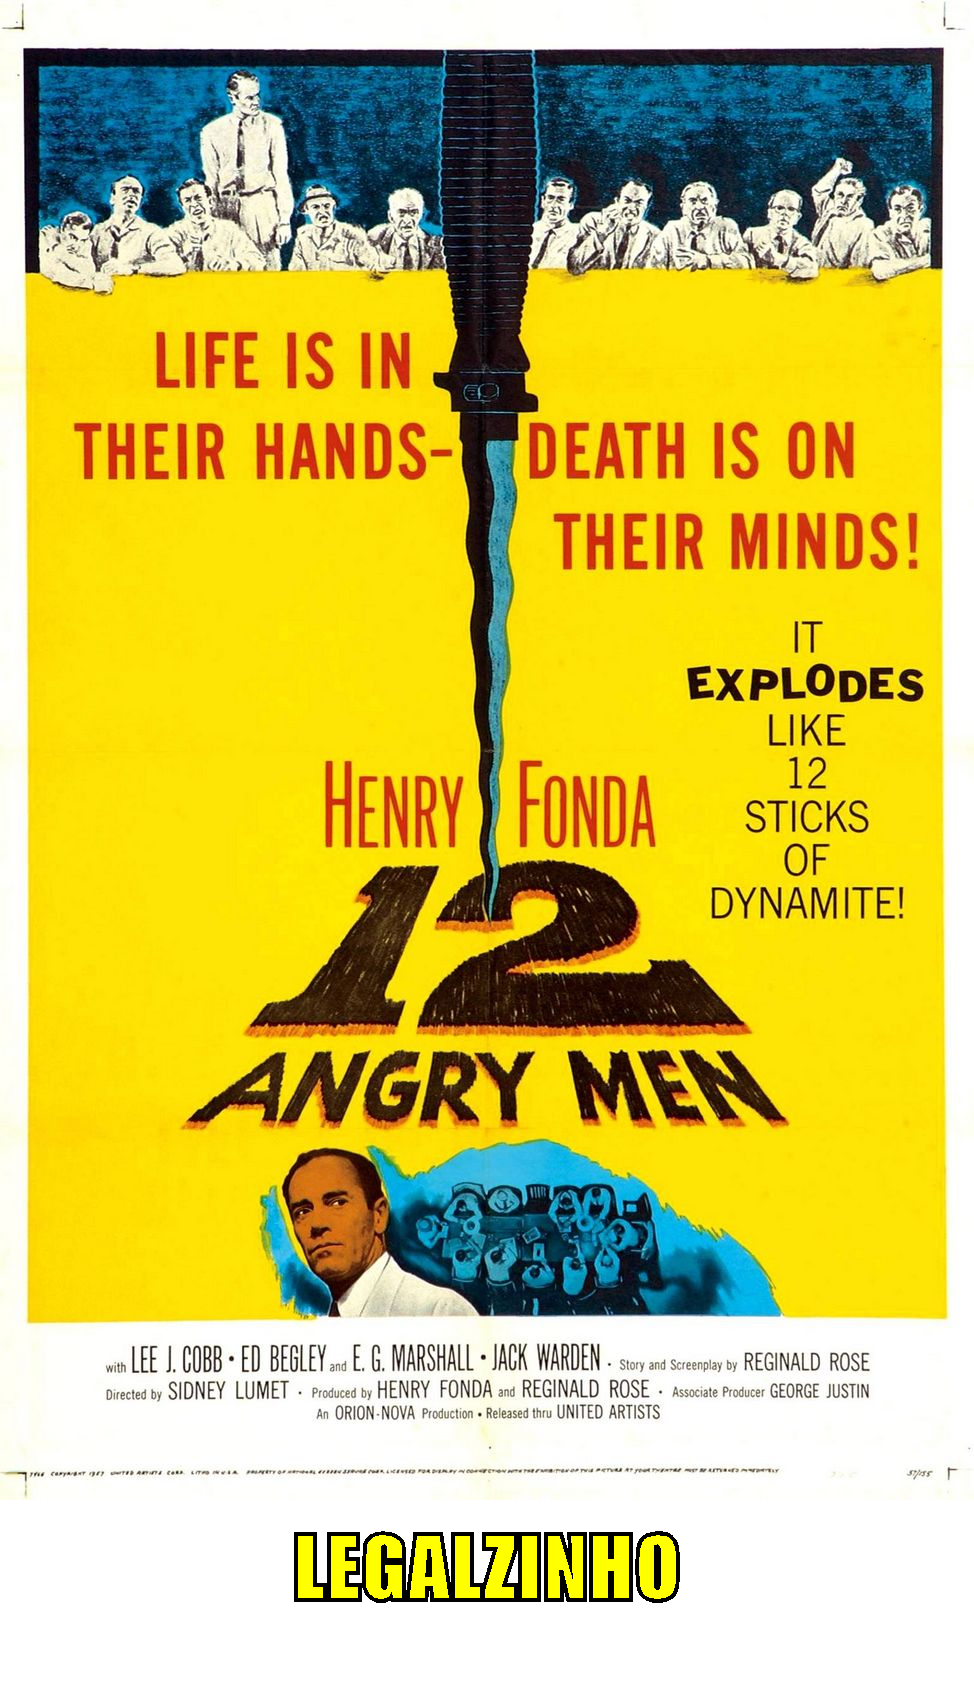
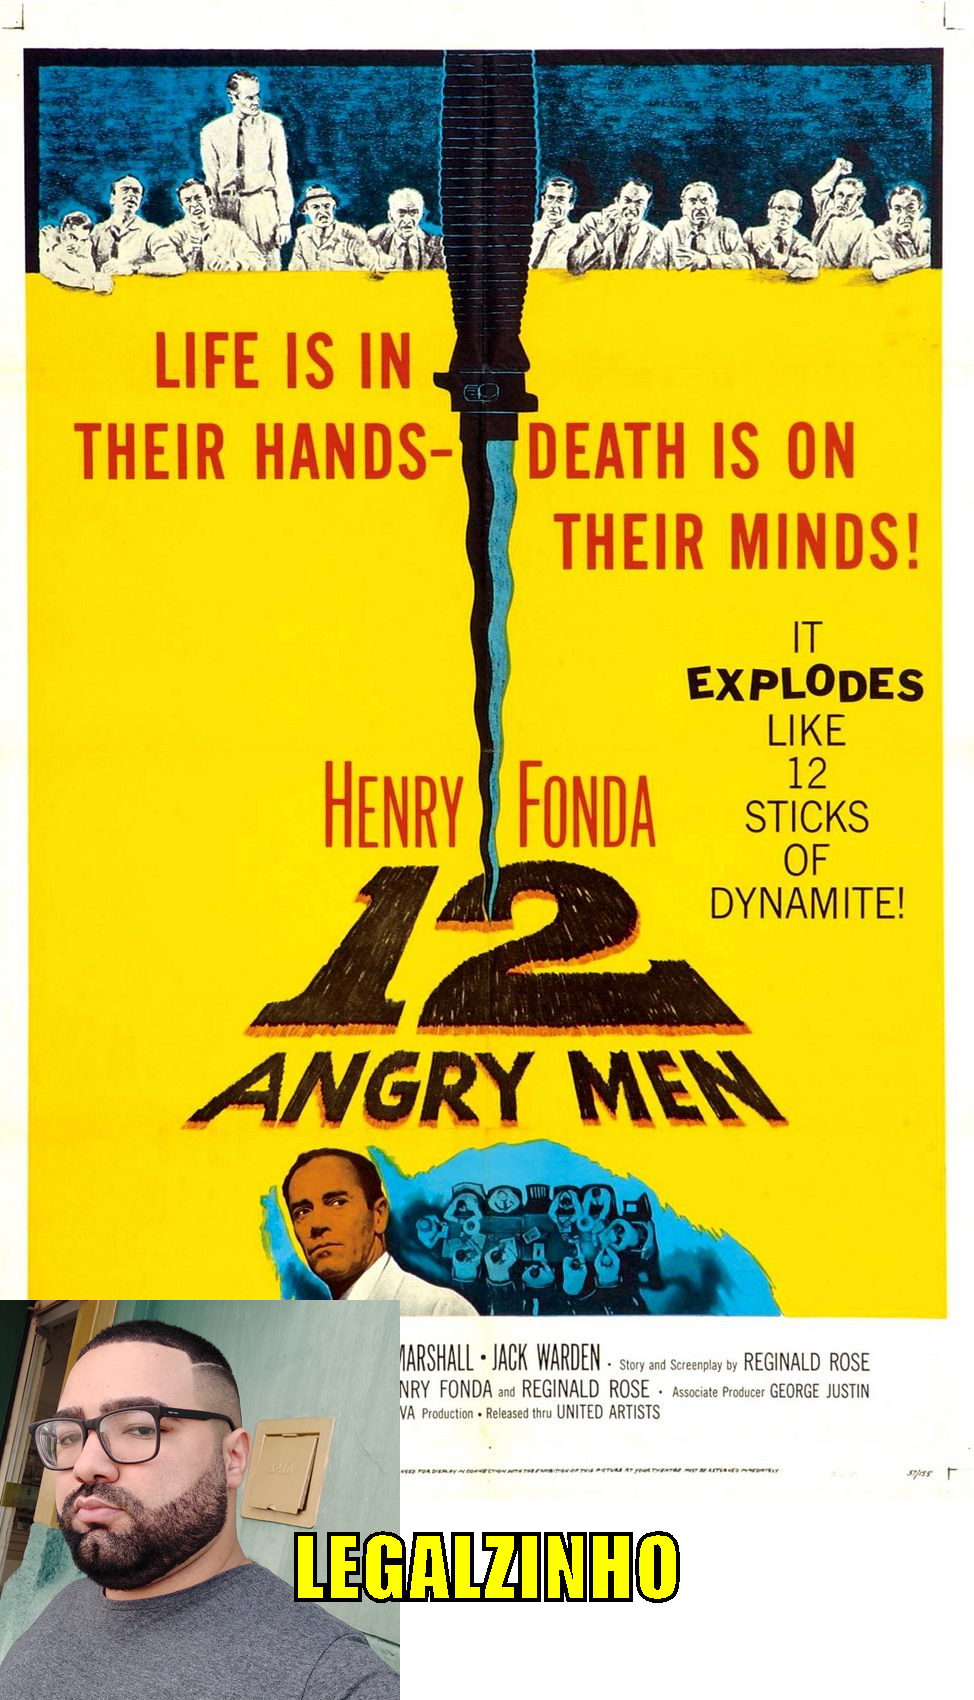
Aula 2 update-2

Changed region(s): [[0.0, 0.7482, 0.4312, 1.0]]

diff --git a/src/StickerGenerator.java b/src/StickerGenerator.java
@@ -10,6 +10,7 @@ import java.awt.geom.AffineTransform;
 import java.awt.geom.Rectangle2D;
 import java.awt.image.BufferedImage;
 import java.io.File;
+import java.io.FileInputStream;
 import java.io.InputStream;
 import java.nio.file.Files;
 import java.nio.file.Paths;
@@ -25,7 +26,26 @@ public class StickerGenerator {
 
     public void creating(InputStream inputStream, String filename, Double rating) throws Exception{
 
+        //definicao de frase e reação
+
+        String word;
+        InputStream reactionImage;
         
+
+        if (rating >= 9){
+            word = "TOPZERA";
+            reactionImage = new FileInputStream(new File("imagens/eu.jpeg"));
+
+        }
+        else if (rating >= 8 && rating< 9){
+            word = "LEGALZINHO";
+            reactionImage = new FileInputStream(new File("imagens/serious.jpg"));
+
+        }
+        else{
+            word = "Mais ou menos";
+            reactionImage = new FileInputStream(new File("imagens/serious.jpg"));
+        }
 
         // ler a imagem
         
@@ -43,6 +63,12 @@ public class StickerGenerator {
         Graphics2D graphics = (Graphics2D) newImage.getGraphics();
         graphics.drawImage(originalImage, 0, 0, null);
 
+        //Colocar a imagem de sobreposição
+
+        BufferedImage coverImage = ImageIO.read(reactionImage);
+        int coverImagePositionY = newHeight - coverImage.getHeight();
+        graphics.drawImage(coverImage, 0, coverImagePositionY, null);
+
         //configurar fonte
         var font = new Font("Impact", Font.BOLD, 80 );
         graphics.setFont(font);
@@ -50,21 +76,10 @@ public class StickerGenerator {
 
         
 
-        // escrever uam frase na nova imagem
+        // escrever uma frase na nova imagem
 
-        String word = "";
+       
 
-        if (rating >= 9){
-            word = "TOPZERA";
-
-        }
-        else if (rating >= 8 && rating< 9){
-            word = "LEGALZINHO";
-
-        }
-        else{
-            word = "Mais ou menos";
-        }
 
         
         FontMetrics fontMetrics = graphics.getFontMetrics();
@@ -87,7 +102,7 @@ public class StickerGenerator {
         graphics.draw(outline);
         graphics.setClip(outline);
 
-        
+       
 
         // escrever a nova imagem em um arquivo
         Files.createDirectories(Paths.get("output"));
